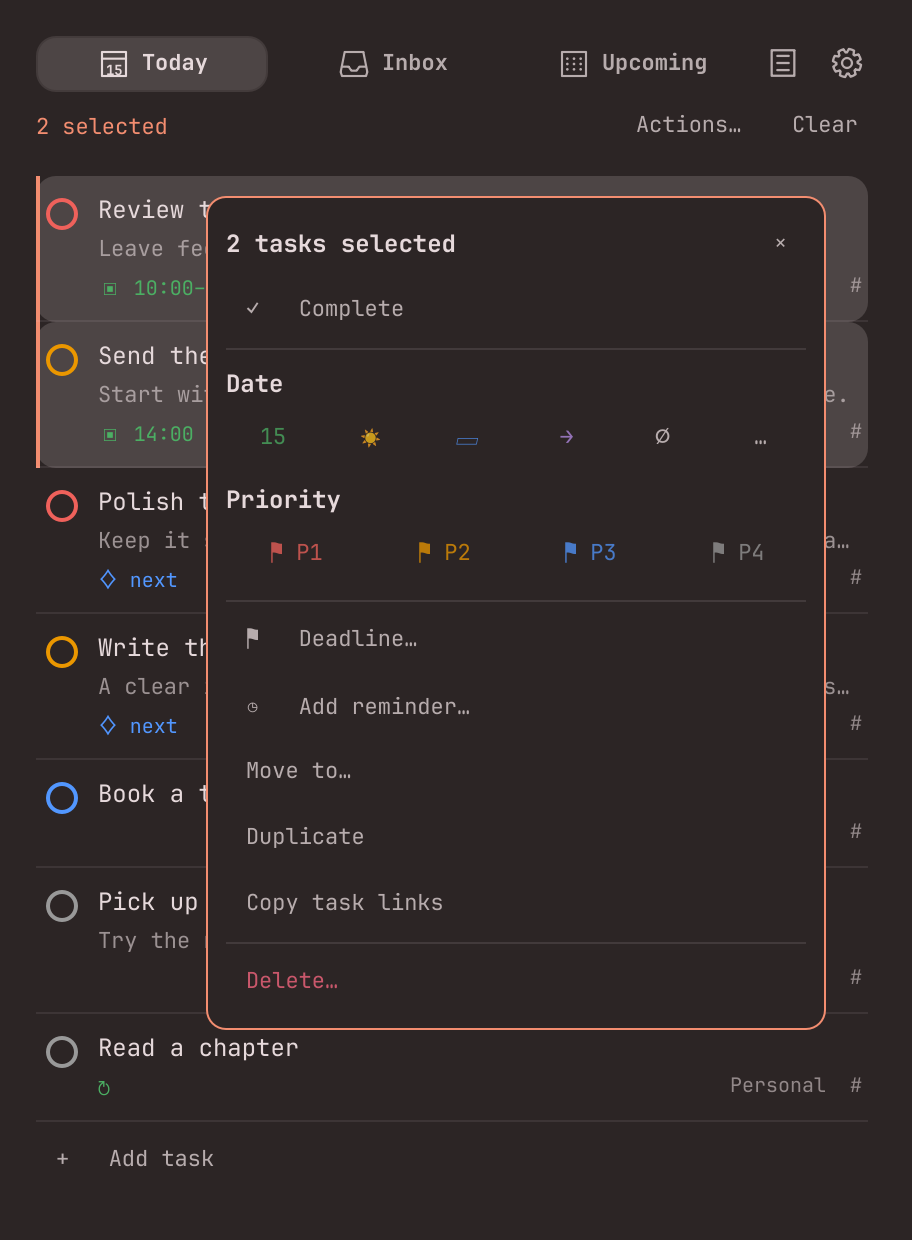
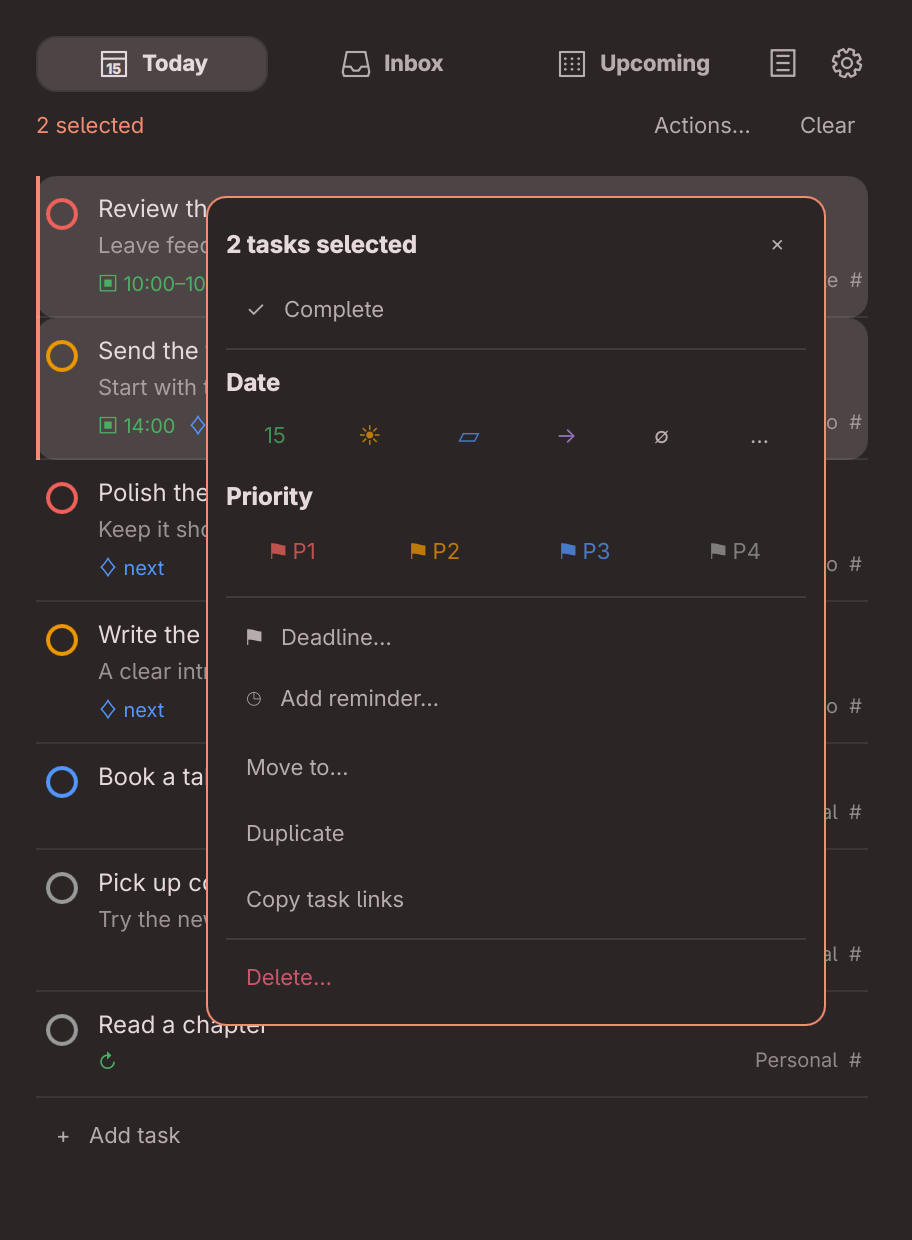
Release 1.2.0 with live Quick Add recognition and proportional text

diff --git a/tools/preview.qml b/tools/preview.qml
@@ -93,11 +93,7 @@ ShellRoot {
                 id: composer
                 x: 18; y: 18; width: parent.width - 36
                 service: service
-                text: "Review the launch plan"
-                initialProjectId: "studio"
-                due: "tomorrow at 10am"
-                priority: 2
-                taskLabels: ["next"]
+                text: "Review the launch plan tomorrow at 10am p2 #Studio @next"
             }
         }
         }
@@ -124,7 +120,7 @@ ShellRoot {
                 artwork.grabToImage(function(result) { result.saveToFile(dir + "/preview.png"); });
                 panel.grabToImage(function(result) { result.saveToFile(dir + "/screenshots/today.png"); });
             }
-            if (phase === 2) quickCard.visible = true;
+            if (phase === 2) { quickCard.visible = true; composer.closePicker(); }
             if (phase === 3) quickCard.grabToImage(function(result) { result.saveToFile(dir + "/screenshots/quick-add.png"); });
             if (phase === 4) composer.openPicker("project");
             if (phase === 5) quickCard.grabToImage(function(result) { result.saveToFile(dir + "/screenshots/quick-add-picker.png"); });

diff --git a/.github/release-notes/v1.2.0.md b/.github/release-notes/v1.2.0.md
@@ -1,0 +1,40 @@
+Quick Add now recognizes and highlights Todoist-style shortcuts as you type. Both task editors, task lists, menus, and settings use your desktop's proportional UI font.
+
+![Quick Add recognizes dates, priorities, projects, and labels](https://raw.githubusercontent.com/crmne/omatasks/v1.2.0/screenshots/quick-add.png)
+
+## New
+
+- **Live Quick Add recognition in both editors.** Common English dates, times, and repeat schedules update the date chip automatically. Projects, sections, labels, priorities (`p1` or `!!1`), assignees, reminders, deadlines, and durations on timed tasks are recognized as you type or paste. Dates and priorities use Todoist-style highlight colors. By @crmne.
+- **Proportional panel typography.** Task lists, both editors, menus, tooltips, and settings follow the desktop's native UI font, without a separate font picker. By @crmne.
+
+![Task panel with proportional text](https://raw.githubusercontent.com/crmne/omatasks/v1.2.0/screenshots/today.png)
+
+## Fixed
+
+- **Long task names wrap.** Recognized shortcuts stay highlighted across wrapped lines; changing a chip updates the corresponding typed shortcut without duplicating it when submitted. An explicit date or `no date` overrides the Today editor's default schedule. By @crmne.
+- **Transient sync failures retry automatically.** Cached tasks stay visible while refresh retries back off from five seconds to five minutes. **Retry now** starts another attempt immediately, while respecting Todoist rate limits. By @crmne; thanks @keegan-sucks for the connection-failure report in [#2](https://github.com/crmne/omatasks/issues/2).
+
+## Known limitations
+
+- Live date previews recognize common English expressions. Other expressions and account languages are sent unchanged to Todoist's official Quick Add parser when saved.
+- Automatic retries do not replace Qt's cached HTTP/2 connection. Persistent connection failures after network changes remain under investigation in [#2](https://github.com/crmne/omatasks/issues/2).
+
+## Validation
+
+70 JavaScript tests, 17 composer UI checks, and 18 list interaction checks passed. QML parsing, shell syntax checks, and Omarchy plugin validation also passed. Screenshots use synthetic tasks rendered from the real QML components on the NVIDIA GPU. API tests intercept requests without accessing a Todoist account.
+
+## Install
+
+```sh
+omarchy plugin add https://github.com/crmne/omatasks.git --enable
+```
+
+Requires Omarchy Quattro and a Todoist account. Existing users can update the plugin through Omarchy.
+
+## Thanks
+
+Thanks to @crmne for implementation and @keegan-sucks for reporting the connection failure.
+
+OmaTasks is an independent project, not created by, affiliated with, or supported by Todoist.
+
+**Full changelog**: https://github.com/crmne/omatasks/compare/v1.1.0...v1.2.0
